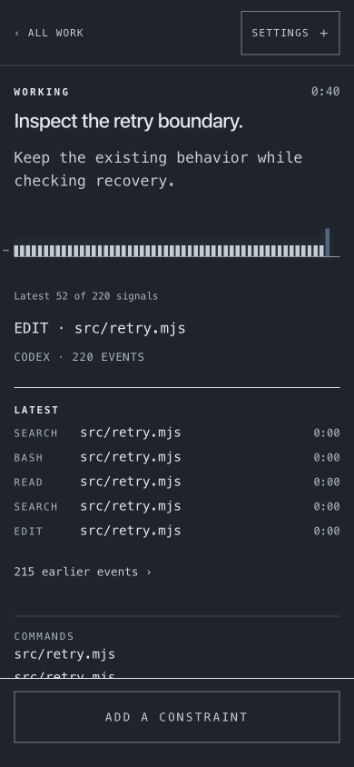
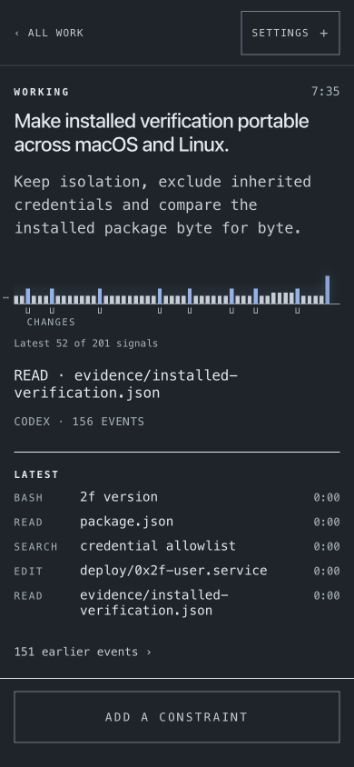
docs: show a varied engineering trace in README captures

Changed region(s): [[0.0311, 0.1499, 0.9322, 0.8096], [0.8701, 0.5398, 0.9633, 0.7797], [0.0311, 0.8096, 0.404, 0.8996]]

diff --git a/docs/images/README.md b/docs/images/README.md
@@ -1,15 +1,18 @@
 # Current interface illustrations — 2026-11-02
 
-Web and mobile PNGs are unedited browser captures of the actual 0.2.0 interface
+Web and mobile PNGs preserve the captured browser pixels of the actual 0.2.0 interface
 in Dark. Run `node docs/images/capture-readme.mjs`, select Dark in SETTINGS and
 open the working task. The fixture uses inert execution and synthetic public
 events, with a neutral workspace and hostname. Its reported-event lane fills
 the available width and retains the live marker. It makes no engineering-result
 or percentage-complete claim. No provider, model or paid request is made.
 
-Desktop capture: browser viewport request 1440×960. Mobile capture: 390×844
-request, 354 CSS px after the browser's existing zoom. Both show the current
-responsive layout. These illustrations are separate from physical-device tests.
+Desktop: a focus crop from the default browser viewport, containing the full
+header, request and activity lane. The varied tool/change/command stream replaces
+the earlier uniform example. Mobile: responsive 390×844 request, 354 CSS px
+after the existing browser zoom. Browser JPEG captures are converted losslessly
+to PNG after decoding; there is no retouching, generated UI or pixel synthesis.
+These illustrations are separate from physical-device tests.
 
 The TUI SVG is the exact `ready-120x36.svg` generated by
 `npm run review:tui -- --no-ai`: a real PTY capture rendered with the current
